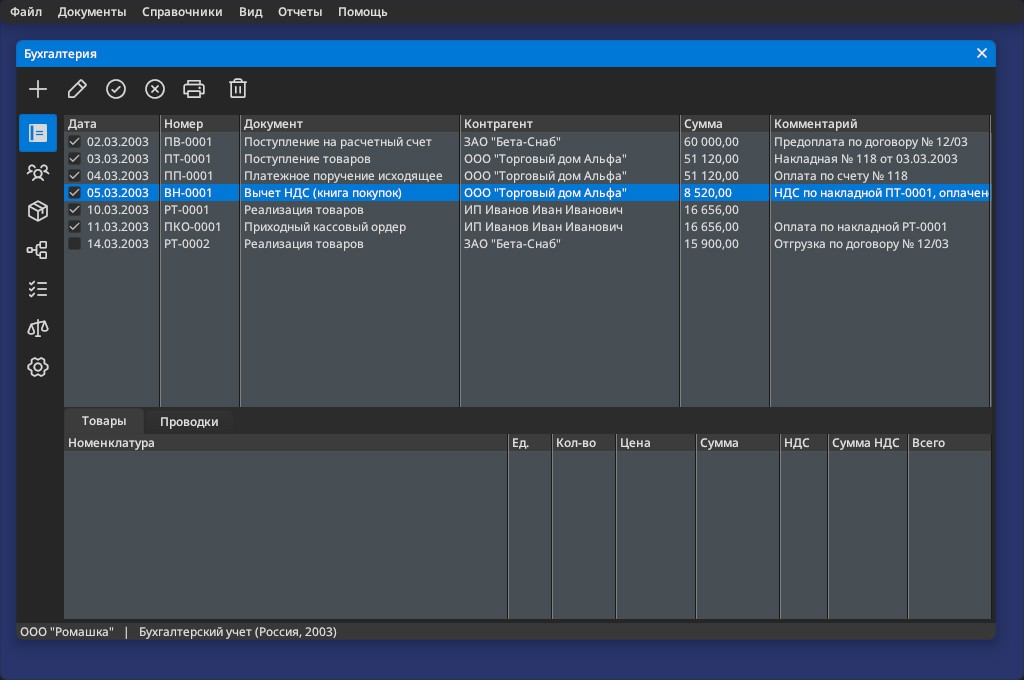
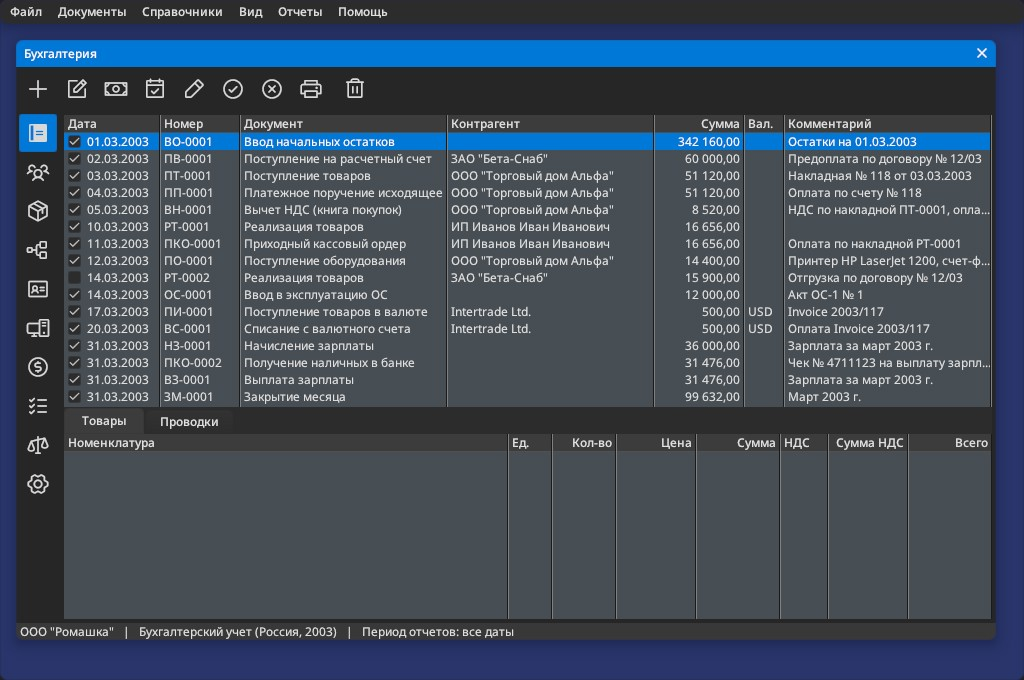
Ledger UI critique fixes: table presentation, sidebar tabs, page toolbars
Framework:
- ReportView: up to 16 columns (beyond is logged, not silently dropped),
  per-column alignment, ellipsized headers and cells.
- TableView: numeric columns right-aligned by the schema type resolved
  through joins (db_schema_field_type), booleans shown as "Yes"/blank,
  zeros="blank" for accounting reports, tvGetTable.
- orionc: TableView zeros="blank", TabView tab-style="sidebar".
- Edit: edGetPlaceholder; DDX shows the cue text for a zero numeric
  value when the field has a placeholder.

Ledger:
- Report and configuration tabs as a sidebar; narrower report columns
  so the trial balance, card and cash book fit.
- Page toolbars for accounts, entries and configuration; Account Card
  (Ctrl+K) and Open Entry's Document commands.
- Status bar names the report period even when it is all dates.

Claude-Session: https://claude.ai/code/session_019Rt9tXeCu9u6LdBkrn46rx

diff --git a/orion/commctl/tableview.c b/orion/commctl/tableview.c
@@ -67,6 +67,8 @@ typedef struct {
   void **rows;
   int row_count;
   const form_def_t *record_form;
+  bool blank_zeros;
+  int *types;  // field type per column (-1 unknown), resolved with the database
 } tableview_state_t;
 
 // Forward declarations
@@ -137,6 +139,24 @@ static bool tv_get_field_text(tableview_state_t *s, void *record,
   return db_get_field_text(s->db, s->table_id, record, field, buf, buf_sz);
 }
 
+static bool tv_zero_text(const char *text) {
+  bool digit = false;
+  for (const char *p = text; *p; p++) {
+    if (*p >= '1' && *p <= '9') return false;
+    digit |= *p == '0';
+  }
+  return digit;
+}
+
+// Booleans read "Yes" or nothing instead of 1 and 0; with zeros="blank",
+// numeric zeros are left empty.
+static void tv_present_cell(tableview_state_t *s, int col, char *text, size_t sz) {
+  int type = s->types ? s->types[col] : -1;
+  if (type == DB_TYPE_BOOL) snprintf(text, sz, "%s", atoi(text) ? ui_tr("Yes") : "");
+  else if (s->blank_zeros && (type == DB_TYPE_INT || type == DB_TYPE_FLOAT || type == DB_TYPE_DOUBLE) && tv_zero_text(text))
+    text[0] = '\0';
+}
+
 // The database can format this table: schema-driven or object-proc adaptor.
 static bool tv_db_supports(database_t *db, int table_id) {
   if (!db) return false;
@@ -171,15 +191,30 @@ static void tv_refresh(window_t *win, tableview_state_t *s, int keep_row) {
   s->rows = NULL;
   s->row_count = 0;
   
-  // Setup columns (on first refresh or if column count changed)
+  // Setup columns (on first refresh or if column count changed). Numbers
+  // align right, as in a ledger.
   int existing_cols = (int)send_message(win, RVM_GETCOLUMNCOUNT, 0, NULL);
   if (existing_cols != s->column_count) {
+    if (s->column_count > MAX_REPORTVIEW_COLUMNS) {
+      fprintf(stderr, "[tableview] columns beyond the limit are not shown win=%u table=%d columns=%d max=%d\n",
+              win->id, s->table_id, s->column_count, MAX_REPORTVIEW_COLUMNS);
+      fflush(stderr);
+      s->column_count = MAX_REPORTVIEW_COLUMNS;
+    }
+    const db_schema_def_t *schema = (const db_schema_def_t *)send_db_message(s->db, dbGetSchema, 0, NULL);
+    const db_table_schema_t *table = db_schema_table(schema, s->table_id);
+    free(s->types);
+    s->types = malloc((size_t)s->column_count * sizeof(int));
     send_message(win, RVM_CLEARCOLUMNS, 0, NULL);
     for (int i = 0; i < s->column_count; i++) {
+      int type = table ? db_schema_field_type(s->db, table, s->field_names[i]) : -1;
+      if (s->types) s->types[i] = type;
+      bool number = type == DB_TYPE_INT || type == DB_TYPE_FLOAT || type == DB_TYPE_DOUBLE;
       reportview_column_t col = {
         .title = s->column_titles[i] ? s->column_titles[i] : s->field_names[i],
         .width = (uint32_t)((s->column_widths && s->column_widths[i] > 0) ? s->column_widths[i] : 0),
         .min_width = (uint32_t)((s->column_min_widths && s->column_min_widths[i] > 0) ? s->column_min_widths[i] : 0),
+        .align = number ? TEXT_ALIGN_RIGHT : 0,
       };
       send_message(win, RVM_ADDCOLUMN, 0, &col);
     }
@@ -219,6 +254,7 @@ static void tv_refresh(window_t *win, tableview_state_t *s, int keep_row) {
                              cell_buf[col], sizeof(cell_buf[col]))) {
         cell_buf[col][0] = '\0';
       }
+      tv_present_cell(s, col, cell_buf[col], sizeof(cell_buf[col]));
     }
     
     // Create row
@@ -317,6 +353,7 @@ result_t win_tableview(window_t *win, uint32_t msg, uint32_t wparam, void *lpara
       s->check_field = params->check_field && params->check_field[0] ? strdup(params->check_field) : NULL;
       s->cell_style = params->cell_style;
       s->record_form = params->record_form;
+      s->blank_zeros = params->blank_zeros;
       TV_LOG("create: id=%u table=%d db=%p columns=%d", (unsigned)win->id,
              s->table_id, (void *)s->db, count_strings(params->field_names));
       
@@ -388,6 +425,7 @@ result_t win_tableview(window_t *win, uint32_t msg, uint32_t wparam, void *lpara
         free(s->master_key);
         free(s->check_field);
         free(s->rows);
+        free(s->types);
         free(s);
         win->userdata = NULL;
       }

diff --git a/tools/orionc.c b/tools/orionc.c
@@ -906,12 +906,12 @@ static void emit_tableviews(FILE *f, xmlNodePtr parent, xmlNodePtr form_node,
       // so only integer FK values work.  String FKs (UUID, hash) would
       // be converted to 0 by the runtime's strtol() call.
       // form="doc_line": the database form that edits one row (EODisplayGroup).
-      char *record_form = attr(c, "form"), record_form_ref[256] = "NULL";
+      char *record_form = attr(c, "form"), record_form_ref[256] = "NULL", *zeros = attr(c, "zeros");
       if (record_form && *record_form) { char rf[128]; ident(rf, sizeof(rf), record_form, false); snprintf(record_form_ref, sizeof(record_form_ref), "&%s_%s_form", prefix, rf); }
-      OUT("static const tableview_params_t %s = { .db = NULL, .table_id = TABLE_%s, .filter_field = %d, .filter_value = %d, .field_names = %s_fields, .column_titles = %s_titles, .column_widths = %s_widths, .column_min_widths = %s_min_widths, .check_field = %s, .master_id = %s, .master_filter_field = %d, .master_key = %s, .cell_style = %s, .hide_column_titles = %s, .record_form = %s };\n\n",
+      OUT("static const tableview_params_t %s = { .db = NULL, .table_id = TABLE_%s, .filter_field = %d, .filter_value = %d, .field_names = %s_fields, .column_titles = %s_titles, .column_widths = %s_widths, .column_min_widths = %s_min_widths, .check_field = %s, .master_id = %s, .master_filter_field = %d, .master_key = %s, .cell_style = %s, .hide_column_titles = %s, .record_form = %s, .blank_zeros = %s };\n\n",
           param, table_id, filter_index, filter_value ? atoi(filter_value) : 0, param, param, param, param, check_field_q, master_id,
-          relation_field, master_key_q, cell_style_value, column_titles && eq(column_titles, "false") ? "true" : "false", record_form_ref);
-      free(record_form);
+          relation_field, master_key_q, cell_style_value, column_titles && eq(column_titles, "false") ? "true" : "false", record_form_ref, eq(zeros, "blank") ? "true" : "false");
+      free(record_form); free(zeros);
       free(column_titles);
       free(cell_style);
       free(check_field);
@@ -1036,10 +1036,14 @@ static void emit_controls_ex(FILE *f, xmlNodePtr parent, const char *form, const
     if (elem(c, "activitybar") && child(c, "toolbar")) snprintf(lparam, sizeof(lparam), "&%s_%s_activity_params", form, nz(a.v[A_NAME], "unnamed"));
     if (elem(c, "combobox") && attr(c, "source")) snprintf(lparam, sizeof(lparam), "&%s_%s_combobox_params", form, nz(a.v[A_NAME], "unnamed"));
     if (elem(c, "tabview")) {
-      char *hide = attr(c, "hide-single-tab");
-      if (eq(hide, "true") || eq(hide, "1"))
-        snprintf(lparam, sizeof(lparam), "&(const tabview_params_t){ .style = TAB_STYLE_HIDE_SINGLE_TAB }");
-      free(hide);
+      // tab-style="sidebar": the tabs as a list down the left edge, for many pages.
+      char *hide = attr(c, "hide-single-tab"), *style = attr(c, "tab-style");
+      bool single = eq(hide, "true") || eq(hide, "1"), sidebar = eq(style, "sidebar");
+      if (style && !sidebar) fprintf(stderr, "orionc: TabView '%s': unknown tab-style '%s' (sidebar)\n", nz(a.v[A_NAME], ""), style);
+      if (single || sidebar)
+        snprintf(lparam, sizeof(lparam), "&(const tabview_params_t){ .style = %s%s%s }", single ? "TAB_STYLE_HIDE_SINGLE_TAB" : "",
+                 single && sidebar ? " | " : "", sidebar ? "TAB_STYLE_SIDEBAR" : "");
+      free(hide); free(style);
     }
     if (elem(c, "SplitView")) {
       const char *orientation = eq(a.v[A_ORIENT], "vertical") ? "SPLIT_HORZ" : "SPLIT_VERT";

diff --git a/orion/commctl/reportview.c b/orion/commctl/reportview.c
@@ -121,9 +121,13 @@ static void report_paint(window_t *win, reportview_data_t *data) {
     if (header_h > 0) {
       set_clip_rect(win, (irect16_t){clip_x, 0, clip_w, header_h});
       theme_draw(THEME_PART_HEADER, R(draw_x, 0, col_w, header_h), CTRL_NORMAL);
-      draw_text_small_clipped(data->columns[col].title,
-                              &(irect16_t){draw_x, 0, col_w, header_h},
-                              hdr_fg, TEXT_PADDING_LEFT);
+      char title[MAX_REPORTVIEW_TITLE + 4];
+      const char *shown = data->columns[col].title;
+      int title_w = col_w - 2 * WIN_PADDING;
+      if (strwidth(shown) > title_w) { text_ellipsize(FONT_SYSTEM, shown, MAX(0, title_w), title, sizeof(title)); shown = title; }
+      draw_text_small_clipped(shown,
+                              &(irect16_t){draw_x, 0, col_w - (data->columns[col].align ? WIN_PADDING : 0), header_h},
+                              hdr_fg, data->columns[col].align ? data->columns[col].align : TEXT_PADDING_LEFT);
     }
 
     int body_h_local = cr.h - header_h;
@@ -167,8 +171,15 @@ static void report_paint(window_t *win, reportview_data_t *data) {
         draw_text_clipped(FONT_SMALLEST, subtitle, &subtitle_rect,
                           row == data->selected ? fg : get_sys_color(brTextDisabled), 0);
       } else {
-        irect16_t text_rect = {text_x, y, text_w, entry_h};
-        draw_text_clipped(FONT_SMALL, src, &text_rect, fg, 0);
+        // Text that does not fit ends in an ellipsis; numbers align right.
+        char fitted[MAX_COLUMNVIEW_ITEM_NAME];
+        int pad = data->columns[col].align ? WIN_PADDING : 0;
+        if (text_strwidth(FONT_SMALL, src) > text_w - pad) {
+          text_ellipsize(FONT_SMALL, src, MAX(0, text_w - pad), fitted, sizeof(fitted));
+          src = fitted;
+        }
+        irect16_t text_rect = {text_x, y, MAX(0, text_w - pad), entry_h};
+        draw_text_clipped(FONT_SMALL, src, &text_rect, fg, data->columns[col].align);
       }
     }
 
@@ -462,14 +473,19 @@ result_t win_reportview(window_t *win, uint32_t msg, uint32_t wparam, void *lpar
       return wparam == RVM_VIEW_REPORT;
     case RVM_ADDCOLUMN: {
       reportview_column_t *col = (reportview_column_t *)lparam;
-      if (!col || data->column_count >= MAX_REPORTVIEW_COLUMNS)
+      if (!col || data->column_count >= MAX_REPORTVIEW_COLUMNS) {
+        fprintf(stderr, "[reportview] add column rejected win=%u count=%u max=%d title=%s\n", win->id,
+                data->column_count, MAX_REPORTVIEW_COLUMNS, col && col->title ? col->title : "");
+        fflush(stderr);
         return -1;
+      }
       uint32_t i = data->column_count;
       strncpy(data->columns[i].title, col->title ? col->title : "", MAX_REPORTVIEW_TITLE - 1);
       data->columns[i].title[MAX_REPORTVIEW_TITLE - 1] = '\0';
       data->columns[i].width_spec = col->width;  // Store original spec
       data->columns[i].width = col->width;        // Initial effective width
       data->columns[i].min_width = col->min_width;
+      data->columns[i].align = col->align;
       data->column_count++;
 
       // Keep effective widths in sync when columns are added after layout.

diff --git a/apps/ledger/controller.c b/apps/ledger/controller.c
@@ -39,7 +39,8 @@ void ledger_update_status(void) {
   const db_report_setting_t *rs = ledger_report_settings(g_ledger->ib, g_ledger->cfg);
   ui_format_date(rs ? rs->date_from : "", from, sizeof(from));
   ui_format_date(rs ? rs->date_to : "", to, sizeof(to));
-  snprintf(period, sizeof(period), ui_tr("Report period: %s – %s"), from[0] ? from : "…", to[0] ? to : "…");
+  if (!from[0] && !to[0]) snprintf(period, sizeof(period), "%s", ui_tr("Report period: all dates"));
+  else snprintf(period, sizeof(period), ui_tr("Report period: %s – %s"), from[0] ? from : "…", to[0] ? to : "…");
   bool dirty = send_db_message(g_ledger->ib, dbGetDirty, 0, NULL);
   snprintf(text, sizeof(text), "%s   |   %s   |   %s%s%s", org, cfg, period, dirty ? "   |   " : "", dirty ? ui_tr("modified") : "");
   send_message(g_ledger->main_win, evStatusBar, 0, text);
@@ -145,6 +146,22 @@ static void new_document(const char *form) {
   if (show_db_dialog_opts(kDocumentForms[f].def, kDocumentForms[f].new_title, g_ledger->main_win, 0, &opts)) after_save(doc_id);
 }
 
+// The account card of the account chosen on the current page: the selected
+// account, or the debit account of the selected entry.
+static void show_account_card(void) {
+  window_t *page = window_active_page(g_ledger->main_win);
+  db_entry_t *entry = page && get_window_item(page, ID_ENTRIES_PAGE_ENTRIES) ? selected(ID_ENTRIES_PAGE_ENTRIES) : NULL;
+  db_account_t *account = entry ? NULL : selected(ID_ACCOUNTS_PAGE_ACCOUNTS);
+  int account_id = entry ? entry->debit_id : account ? account->id : 0;
+  db_report_setting_t *rs = ledger_report_settings(g_ledger->ib, g_ledger->cfg);
+  if (!account_id || !rs) return;
+  rs->account_id = account_id;
+  send_db_message(g_ledger->ib, dbUpdate, TABLE_REPORT_SETTINGS, rs);
+  after_save(0);
+  page_host_select(g_ledger->main_win, ID_VIEW_REPORTS);
+  send_message(view(ID_REPORTS_PAGE_REPORT_TABS), tcSetSelection, 1, NULL);  // the card tab
+}
+
 // Catalog commands act on the page's TableView, which owns the row form.
 static void catalog_action(uint32_t table_view, uint32_t action) {
   if (send_message(view(table_view), action, 0, NULL)) ledger_refresh_views();
@@ -207,6 +224,11 @@ void ledger_command(uint16_t id) {
     case ID_DOC_NEW_ASSETS:    new_document("assets");    break;
     case ID_DOC_CLOSE_MONTH:   new_document("closing");   break;
     case ID_DOC_OPEN: if (doc) edit_document(doc->id); break;
+    case ID_DOC_OPEN_ENTRY: {
+      db_entry_t *entry = selected(ID_ENTRIES_PAGE_ENTRIES);
+      if (entry) edit_document(entry->document_id);
+      break;
+    }
     case ID_DOC_POST:
       if (doc && ledger_post(g_ledger->ib, g_ledger->cfg, doc->id)) after_save(0);
       break;
@@ -257,6 +279,7 @@ void ledger_command(uint16_t id) {
       ledger_repost_all(g_ledger->ib, g_ledger->cfg);
       ledger_refresh_views();
       break;
+    case ID_REPORT_CARD: show_account_card(); break;
     case ID_REPORT_PRINT:
       if (ledger_print_reports(report, sizeof(report)))
         message_box(parent, report, ui_tr("Print Forms Written"), MB_OK);

diff --git a/orion/commdlg/dialog.c b/orion/commdlg/dialog.c
@@ -718,10 +718,20 @@ void end_dialog(window_t *win, uint32_t code) {
 // ── Dialog Data Exchange (DDX) ────────────────────────────────────────────
 // Push state → controls (populate on open); pull controls → state (read on OK).
 
+// A zero in a field with cue text means "not given": the field stays empty
+// and shows its cue ("Rate on the document date").
+static bool ddx_zero_shows_cue(window_t *dlg, const ctrl_binding_t *b, double v) {
+  window_t *ctrl = v == 0 ? get_window_item(dlg, b->ctrl_id) : NULL;
+  const char *cue = ctrl ? (const char *)(intptr_t)send_message(ctrl, edGetPlaceholder, 0, NULL) : NULL;
+  if (!cue || !cue[0]) return false;
+  set_window_item_text(dlg, b->ctrl_id, "%s", "");
+  return true;
+}
+
 void ddx_push_int(window_t *dlg, const ctrl_binding_t *b, const void *state) {
   const char *base = (const char *)state;
   int v = *(const int *)(base + b->offset);
-  set_window_item_text(dlg, b->ctrl_id, "%d", v);
+  if (!ddx_zero_shows_cue(dlg, b, v)) set_window_item_text(dlg, b->ctrl_id, "%d", v);
 }
 
 void ddx_pull_int(window_t *dlg, const ctrl_binding_t *b, void *state) {
@@ -753,7 +763,7 @@ void ddx_push_double(window_t *dlg, const ctrl_binding_t *b, const void *state) 
   int decimals = 2;  // money shows cents; fractions keep only the digits they need
   while (decimals < 6 && v * scale != (double)(long long)(v * scale)) { decimals++; scale *= 10.0; }
   char text[64];
-  set_window_item_text(dlg, b->ctrl_id, "%s", ui_format_number(v, decimals, text, sizeof(text)));
+  if (!ddx_zero_shows_cue(dlg, b, v)) set_window_item_text(dlg, b->ctrl_id, "%s", ui_format_number(v, decimals, text, sizeof(text)));
 }
 
 // Dates are stored as ISO "YYYY-MM-DD" and edited in the catalog's format.

diff --git a/orion/user/database.c b/orion/user/database.c
@@ -344,6 +344,29 @@ bool db_schema_field_text(database_t *db, const db_table_schema_t *table,
                 : true;
 }
 
+int db_schema_field_type(database_t *db, const db_table_schema_t *table, const char *field) {
+  while (db && table && field) {
+    const char *dot = strchr(field, '.');
+    if (!dot) {
+      int index = db_schema_field_index(table, field);
+      return index >= 0 ? (int)table->meta[index].type : -1;
+    }
+    const db_join_schema_t *join = db_schema_join(table, field, (size_t)(dot - field));
+    const char *name = join ? join->foreign_table : NULL, *qualified = name ? strchr(name, '.') : NULL;
+    if (!name || name[0] == '{' || (qualified && qualified[1] == '{')) return -1;
+    if (qualified) {
+      char db_name[64];
+      snprintf(db_name, sizeof(db_name), "%.*s", (int)(qualified - name), name);
+      db = get_database_by_name(db_name);
+      name = qualified + 1;
+    }
+    const db_schema_def_t *schema = db ? (const db_schema_def_t *)send_db_message(db, dbGetSchema, 0, NULL) : NULL;
+    table = db_schema_table_named(schema, name);
+    field = dot + 1;
+  }
+  return -1;
+}
+
 bool db_get_field_text(database_t *db, int table_id, const void *record,
                        const char *field, char *buf, size_t buf_sz) {
   if (!db || !record || !field || !buf || buf_sz == 0) return false;

diff --git a/orion/user/database.h b/orion/user/database.h
@@ -161,6 +161,9 @@ bool db_parse_field(const db_field_meta_t *field, void *record, const char *text
 bool db_schema_field_text(database_t *db, const db_table_schema_t *table,
                           const void *record, const char *field,
                           char *buf, size_t buf_sz);
+// The type of a field or join path ("item.price") of a schema table, or -1
+// when it cannot be resolved (unknown field, polymorphic relation).
+int db_schema_field_type(database_t *db, const db_table_schema_t *table, const char *field);
 // Formats a record field for display: dbGetFieldText when the database
 // implements it, otherwise the table's object proc and field bindings.
 bool db_get_field_text(database_t *db, int table_id, const void *record,

diff --git a/orion/commctl/columnview.h b/orion/commctl/columnview.h
@@ -11,7 +11,7 @@
 #define REPORTVIEW_TWO_LINE_ENTRY_HEIGHT (FONT_SIZE_SMALL * 2 + 5)
 #define COLUMNVIEW_HEADER_HEIGHT (FONT_SIZE + 6)        // header uses FONT_SYSTEM
 #define COLUMNVIEW_WIN_PADDING   4
-#define REPORTVIEW_MAX_SUBITEMS  8
+#define REPORTVIEW_MAX_SUBITEMS  (MAX_REPORTVIEW_COLUMNS - 1)  // every column after the first
 
 // ReportView messages (WinAPI-style report/list view naming).
 enum {
@@ -72,6 +72,7 @@ typedef struct {
   const char *title;
   uint32_t width;
   uint32_t min_width;  // 0 = use default (20px), >0 = per-column minimum
+  uint32_t align;      // 0 = left, TEXT_ALIGN_RIGHT (numbers), TEXT_ALIGN_CENTER
 } reportview_column_t;
 
 typedef struct {

diff --git a/orion/user/messages.h b/orion/user/messages.h
@@ -183,6 +183,7 @@ enum {
   edGetText,        // wparam=buf_size; lparam=char* dst → copies text, returns length
   edSetText,        // wparam=0; lparam=const char* src → replaces text
   edSetPlaceholder, // lparam=const char* cue text shown while the field is empty (EM_SETCUEBANNER)
+  edGetPlaceholder, // returns const char* cue text, "" when none (EM_GETCUEBANNER)
   // List (popup) messages
   lstSetItem,             // wparam=item index to pre-select in the dropdown list
   // Individual desktop-style icon control (commctl/icon.c).

diff --git a/orion/commctl/commctl.h b/orion/commctl/commctl.h
@@ -197,6 +197,7 @@ typedef struct {
   reportview_cell_style_t cell_style; // REPORTVIEW_CELL_COLUMNS (default) or TWO_LINE
   bool hide_column_titles;
   const struct form_def_s *record_form; // database form editing one row (form=); double-click edits
+  bool blank_zeros;            // zeros="blank": numeric zeros show empty, as accounting reports do
 } tableview_params_t;
 
 result_t win_tableview(window_t *win, uint32_t msg, uint32_t wparam, void *lparam);

diff --git a/orion/commctl/columnview_internal.h b/orion/commctl/columnview_internal.h
@@ -33,6 +33,7 @@ typedef struct {
     uint32_t width_spec;  // Original width specification: 0 = flex, >0 = fixed pixels
     uint32_t width;       // Current effective width (calculated for flex, same as spec for fixed)
     uint32_t min_width;   // Per-column minimum width, 0 = default (20px)
+    uint32_t align;       // 0 = left, TEXT_ALIGN_RIGHT, TEXT_ALIGN_CENTER
   } columns[MAX_REPORTVIEW_COLUMNS];
 
   uint32_t count;

diff --git a/orion/commctl/edit.c b/orion/commctl/edit.c
@@ -197,6 +197,11 @@ result_t win_textedit(window_t *win, uint32_t msg, uint32_t wparam, void *lparam
       return true;
     }
 
+    case edGetPlaceholder: {
+      textedit_t *te = win->userdata;
+      return (result_t)(intptr_t)(te ? te->placeholder : "");
+    }
+
     case evGetCursor:
       return curIBeam;
   }
